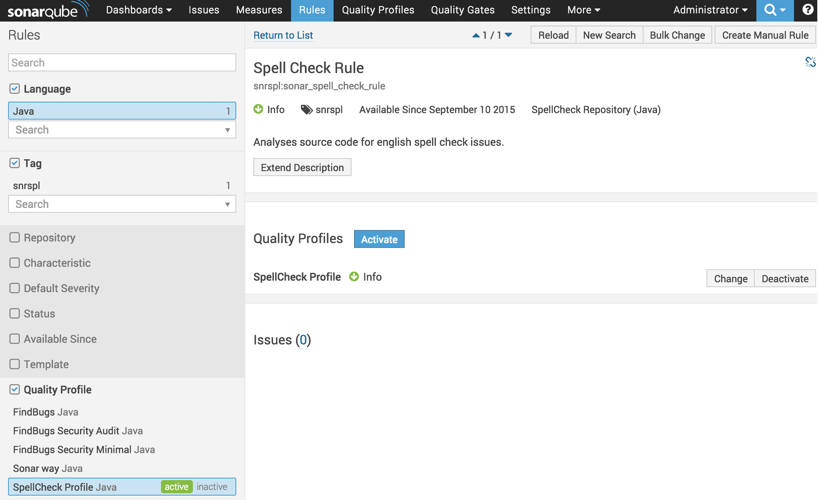
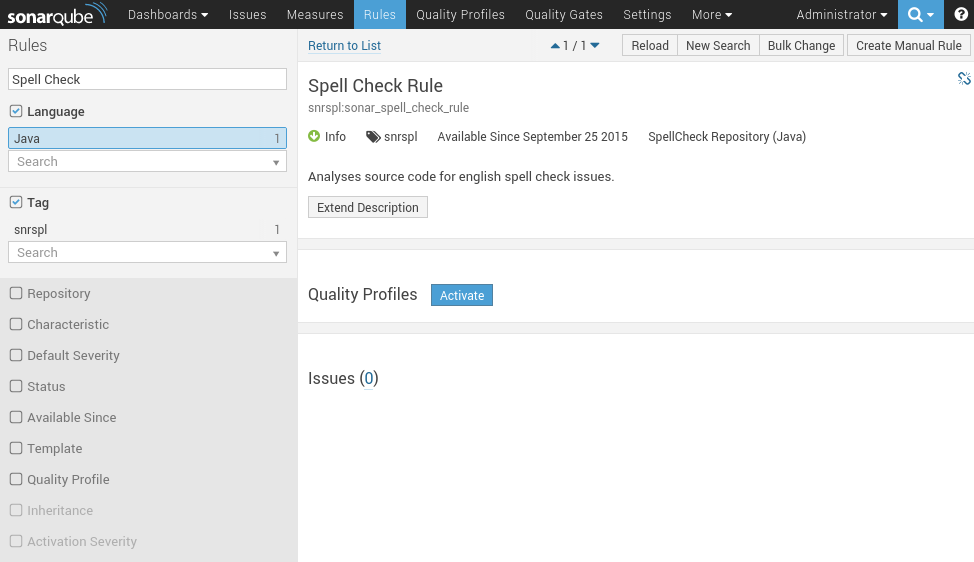
Update images and readme.md

diff --git a/README.md b/README.md
@@ -15,13 +15,13 @@ Usage
 Activate SpellCheck rule for your ```Quality Profiles```
 --------------------------------
 
-1. Go to ```Quality Profiles``` and click on ```SpellCheck Profile```' rule 
-    ![SpellCheck Profile](images/activate_rule_1.png)
-2. Page with ```SpellCheck Profile``` rules will be opened, here click on ```SpellCheck Rule``` and then on ```Activate```
+1. Go to ```Rules``` and search for ```Spell Check``` rule 
+    ![Find SpellCheck Rule](images/activate_rule_1.png)
+2. Click on found ```Spell Check Rule``` and then on ```Activate```
     ![Select SpellCheck Rule](images/activate_rule_2.png)
-3. In appeared dialog box select required profile to activate rule for and lick ```Activate``` 
+3. In appeared dialog box select required profile to activate rule for and click ```Activate``` 
     ![Activate SpellCheck Rule](images/activate_rule_3.png)
-4. ```SpellCheck Rule``` will be activated in selected profile, in our case ```Sonar Way``` profile
+4. ```Spell Check Rule``` will be activated in selected profile, in our case ```Sonar Way``` profile
     ![Activated SpellCheck Rule in Sonar Way profile](images/activate_rule_4.png)
 
 Add word/amend dictionary with custom words:
@@ -68,7 +68,7 @@ Development and run:
 1. Make some code changes
 2. **Build** and **install** the plugin : ```bash mvn package org.codehaus.sonar:sonar-dev-maven-plugin::upload -DsonarHome={sonarqube-5.1} -DsonarUrl=http://localhost:9000``` . Use correct location of Sonarqube for the parameter -DsonarHome, for example ```-DsonarHome=d:\Sonar5.1```
 3. Restart [SonarQube](http://www.sonarqube.org/)
-4. Change on [SonarQube](http://www.sonarqube.org/) page top menu "Quality Profiles" ```Sonar SpellCheck Profile``` to default. 
+4. Activate SpellCheck rule for your ```Quality Profile``` 
 5. To perform spell check analysis go to the project that you want to test and write ```bash mvn sonar:sonar``` command (for Windows machines use ```mvn sonar:sonar```), for debug use ```bash mvnDebug sonar:sonar``` command (by default debug port is **8000**)
 6. After that you can see results on [http://localhost:9000/dashboard/](http://localhost:9000/dashboard/) or follow the link that will be found in the bottom of command line output
 7. To analyse using Docker based installation execute ```mvn sonar:sonar -Dsonar.host.url=http://192.168.176.128:9000/ -Dsonar.jdbc.url=jdbc:mysql://192.168.176.128:3306/sonarqube -Dsonar.jdbc.username=sonarqube -Dsonar.jdbc.password=sonarqube```
